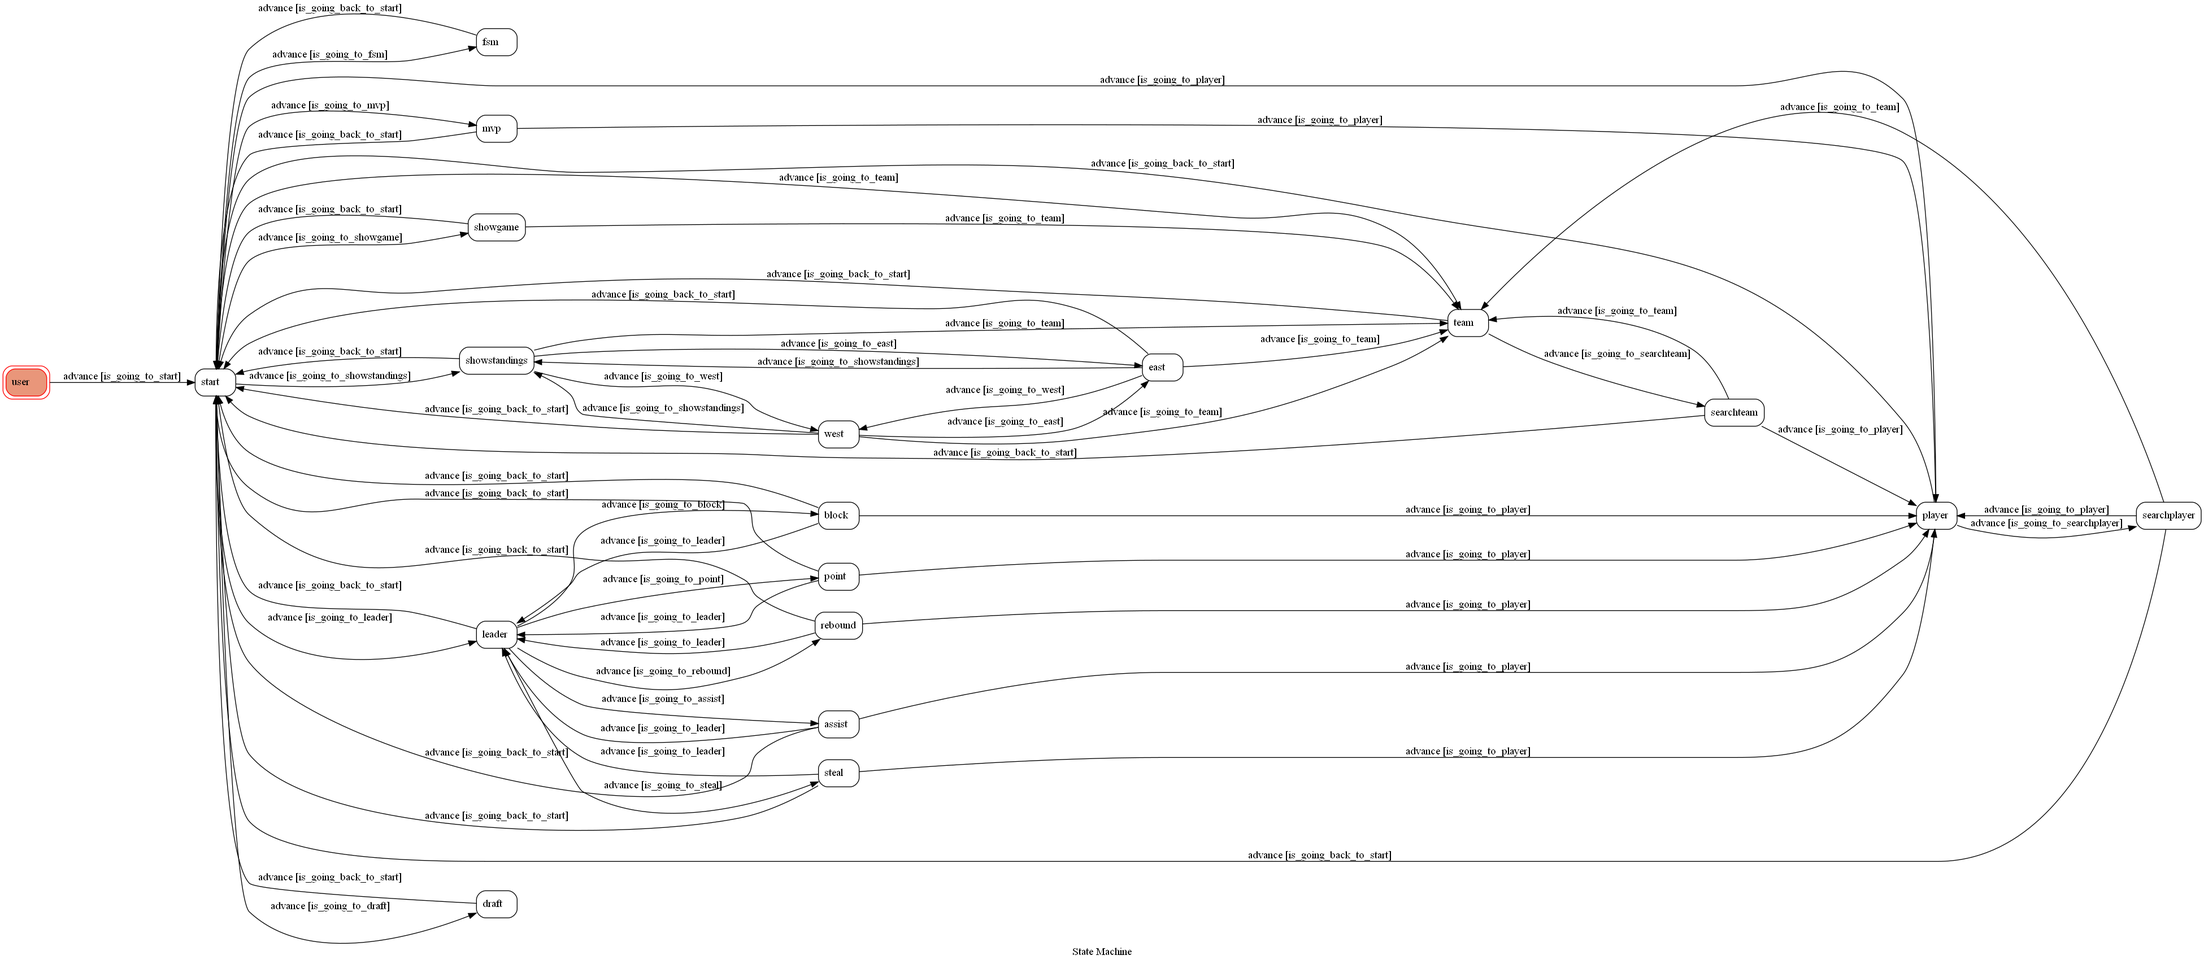
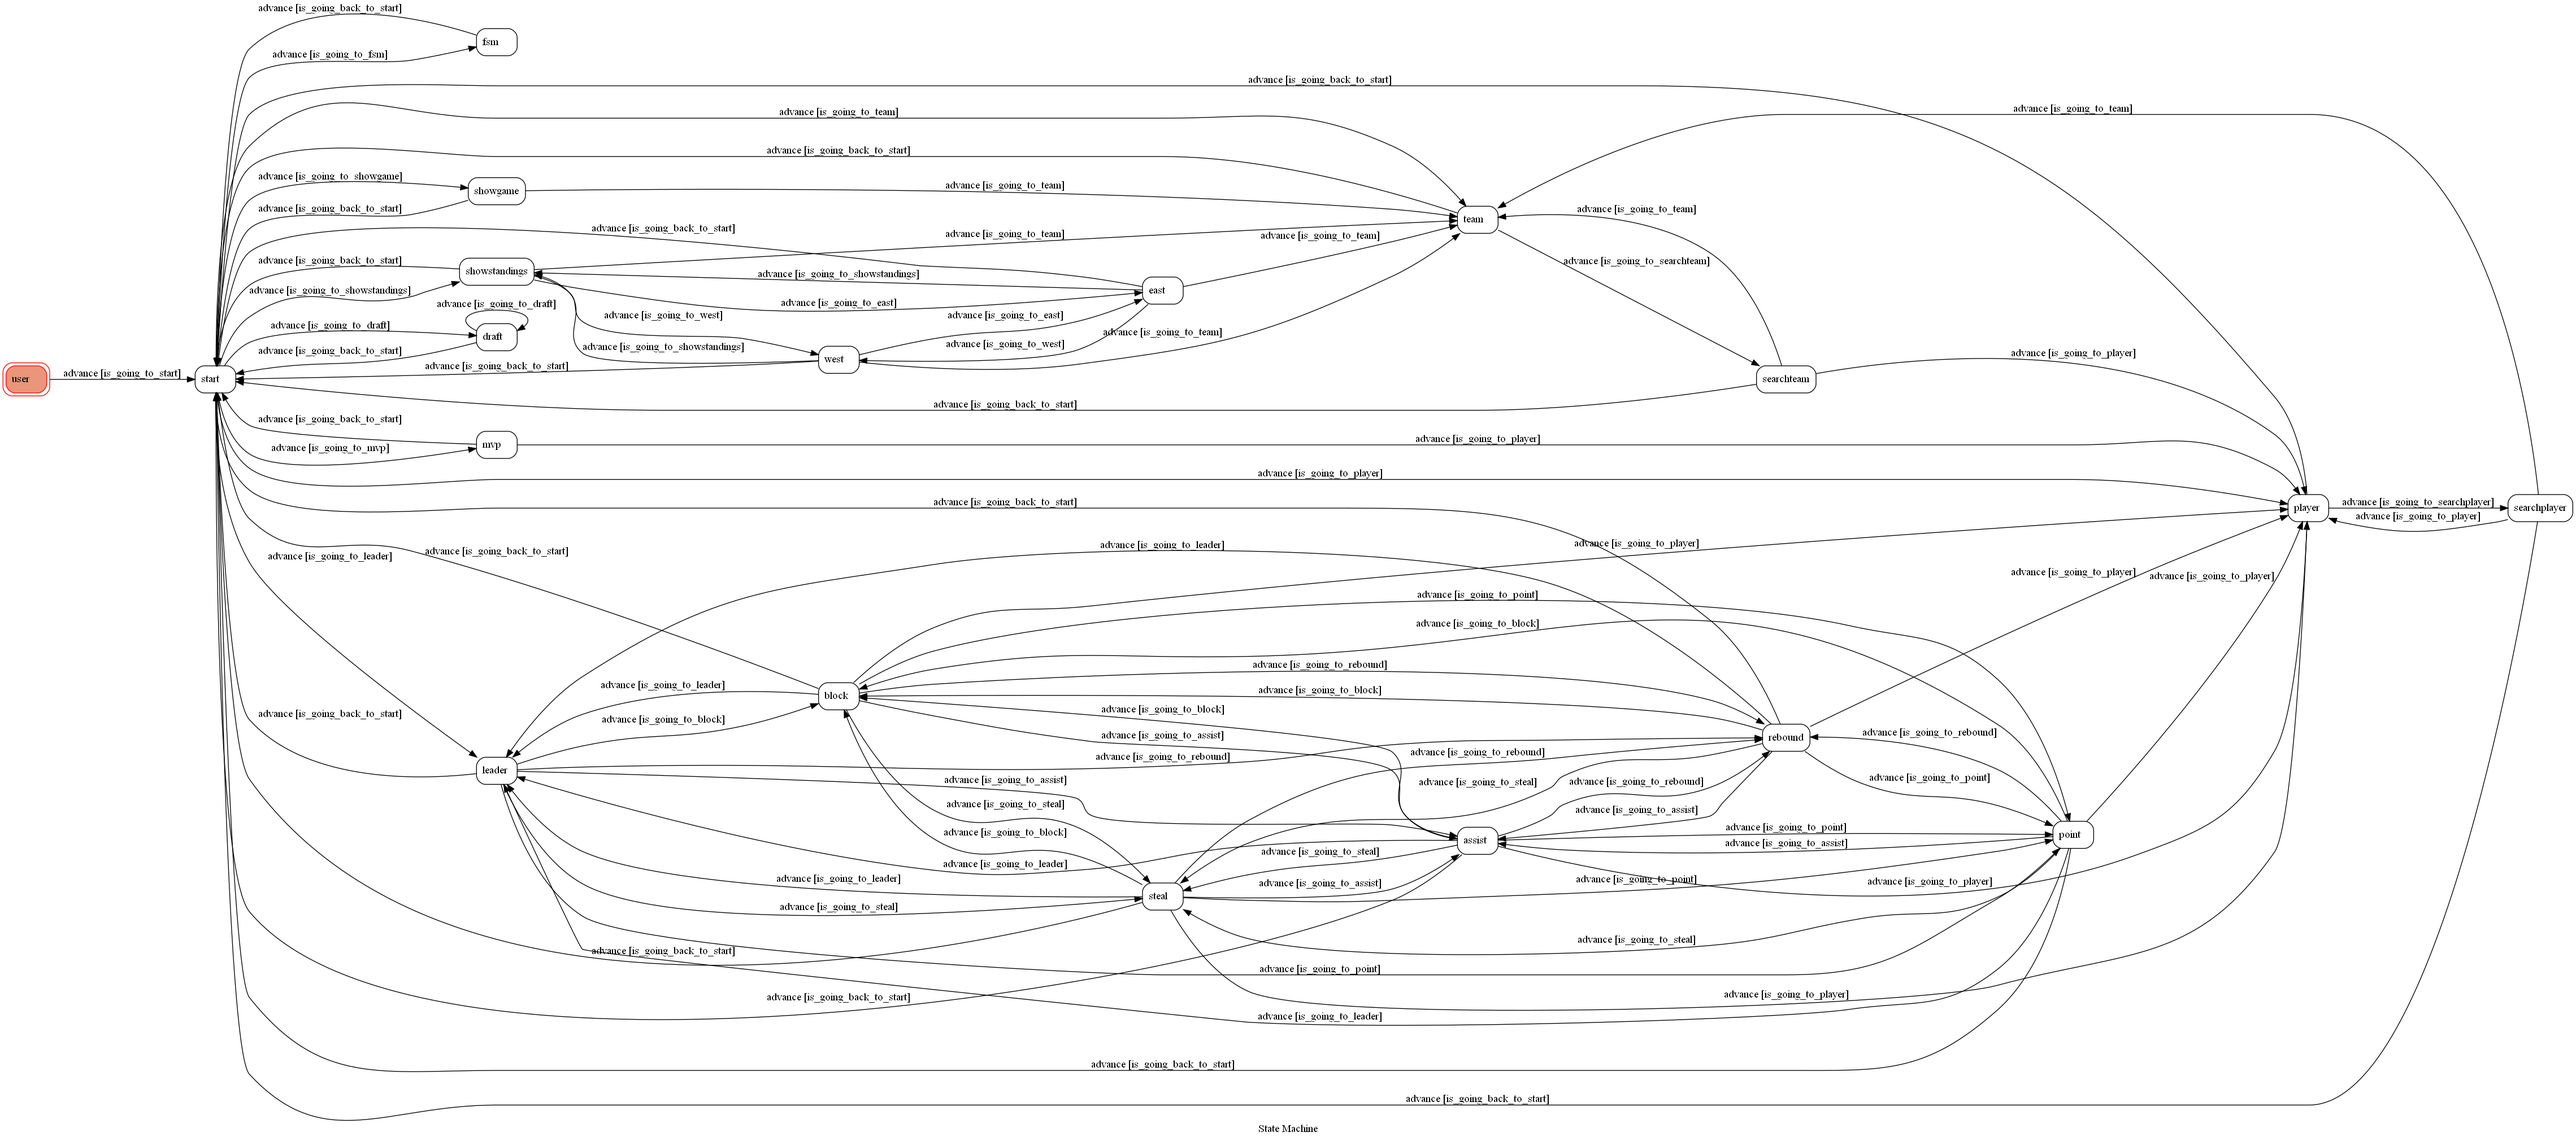
Modify state machine and fsm

diff --git a/machine.py b/machine.py
@@ -79,37 +79,37 @@ def create_machine():
         },
         {
             "trigger": "advance",
-            "source": "leader",
+            "source": ["leader","rebound","steal","block","assist"],
             "dest": "point",
             "conditions": "is_going_to_point",
         },
         {
             "trigger": "advance",
-            "source": "leader",
+            "source": ["leader","point","steal","block","assist"],
             "dest": "rebound",
             "conditions": "is_going_to_rebound",
         },
         {
             "trigger": "advance",
-            "source": "leader",
+            "source": ["leader","point","steal","rebound","block"],
             "dest": "assist",
             "conditions": "is_going_to_assist",
         },
         {
             "trigger": "advance",
-            "source": "leader",
+            "source": ["leader","point","assist","rebound","block"],
             "dest": "steal",
             "conditions": "is_going_to_steal",
         },
         {
             "trigger": "advance",
-            "source": "leader",
+            "source": ["leader","point","assist","rebound","steal"],
             "dest": "block",
             "conditions": "is_going_to_block",
         },
         {
             "trigger": "advance",
-            "source": "start",
+            "source": ["start","draft"],
             "dest": "draft",
             "conditions": "is_going_to_draft",
         },

diff --git a/fsm.py b/fsm.py
@@ -101,7 +101,7 @@ class TocMachine(GraphMachine):
 
         reply_token = event.reply_token
         im = pyimgur.Imgur(CLIENT_ID)
-        image = im.get_image("S0ce0Ol")
+        image = im.get_image("tzbDhcF")
         send_image_url(reply_token, image.link)
 
 
